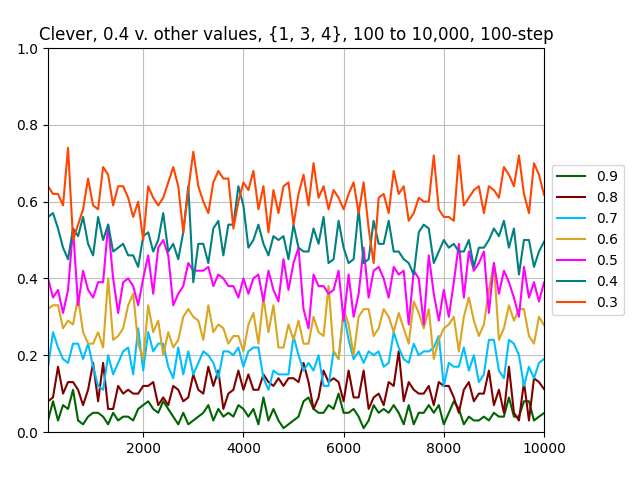
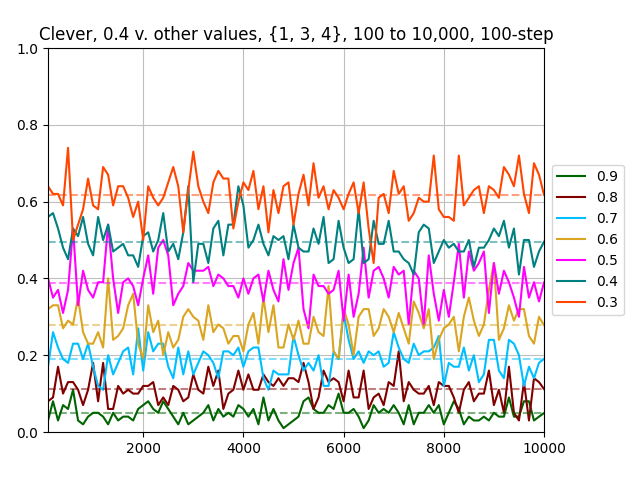
Lines at last

diff --git a/graphing.py b/graphing.py
@@ -8,23 +8,17 @@ dfs = [
   ]
 ]
 
-"""
-Currently messed up:
-Random 0.8 {1, 2, 3}, Random 0.8 {1, 3, 4}, Random 0.7 {1, 2, 3}, Random 0.7 {1, 3, 4}
-Clever 0.9 {1, 3, 4}
-Clever 0.8 {1, 2, 3}, Clever 0.8 {1, 3, 4}, Clever 0.7 {1, 2, 3}, Clever 0.7 {1, 3, 4}
-"""
-
 if __name__ == "__main__":
   xax = range(100, 10001, 100)
-  colors = ['', 'darkgreen', 'maroon', 'deepskyblue', 
+  colors = ['darkgreen', 'maroon', 'deepskyblue', 
             'goldenrod', 'magenta', 'teal', 'orangered']
   for frame in dfs:
     for x in range(7):
-      #if x == 0:# or x == 2:
+    #if x == 0:# or x == 2:
       plt.gca().set_xlim([100, 10000])
       plt.gca().set_ylim([0.0, 1.0])
       plt.grid(axis='both', color='0.75')
+      #plt.axes().set_prop_cycle(color=colors)
       df = frame.iloc[:104, 8*x:8*(x+1)]
       #print(df.head())
       title = df.iloc[0, 0]
@@ -32,9 +26,15 @@ if __name__ == "__main__":
       for i in range(1, 8):
         col = df.iloc[3:103, i].astype("float").to_list()
         #print(col[0:20])
-        plt.plot(xax, col, color=colors[i])
-        #avg = df.iloc[103, i]
-        #plt.axhline(avg, color=colors[i], linestyle='--')
+        plt.plot(xax, col, color=colors[i - 1])
+        print(df.iloc[102, i])
+        #plt.axhline(float(df.iloc[102, i]), xmin=100, xmax=10000, color=colors[i], # Error here
+        #  label="_nolegend_", linestyle="--")
+      #print(len(df.iloc[102, 1:8].astype("float").to_list()))
+      #print(len(colors))
+      plt.hlines(y=df.iloc[102, 1:8].astype("float").T, 
+                 xmin=100, xmax=10000, color=colors, 
+                 label="__nolegend__", linestyle="--", alpha=0.5)
       plt.title(title)
       plt.legend(['0.9', '0.8', '0.7', '0.6', '0.5', '0.4', '0.3'], 
                 bbox_to_anchor = (1.175, 0.5), loc='center right')
